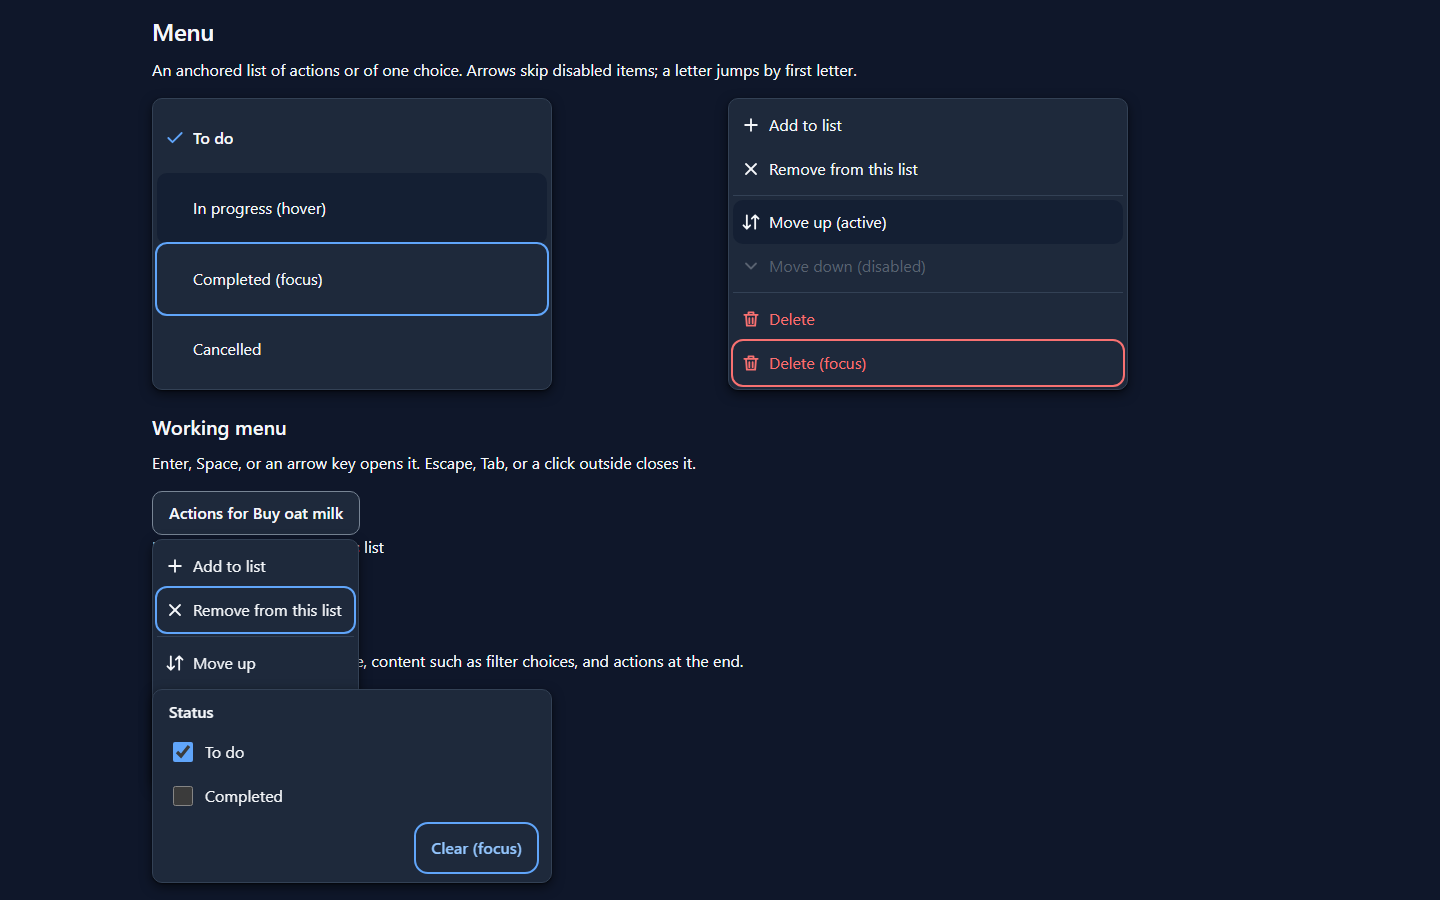
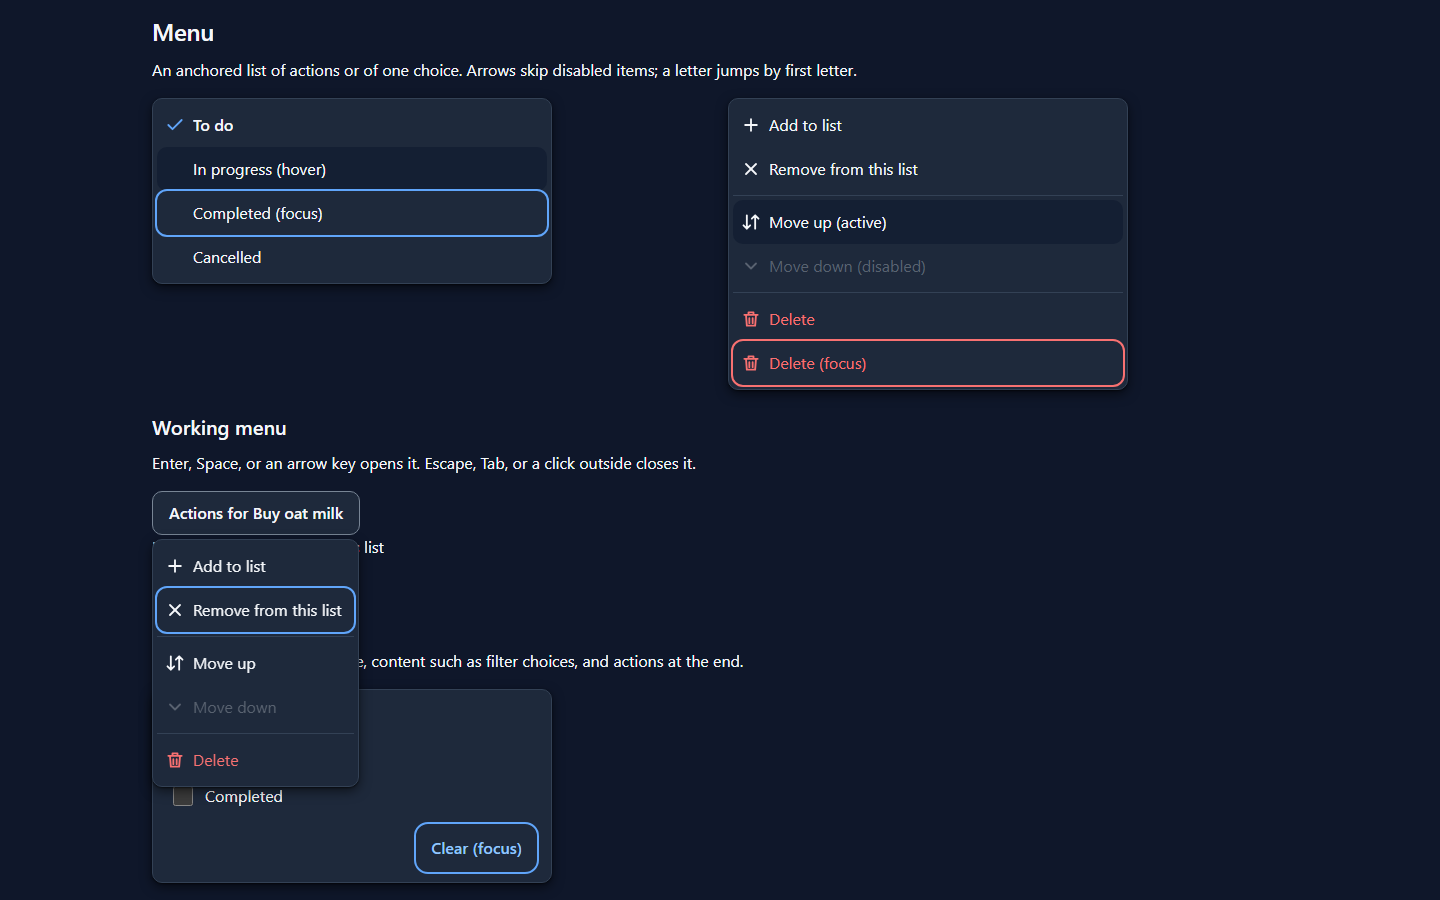
Checkpointed task T0011.

diff --git a/tasks/T0011-extract-the-menu-and-popover-modules-from-todos/validation-proof.md b/tasks/T0011-extract-the-menu-and-popover-modules-from-todos/validation-proof.md
@@ -91,3 +91,59 @@ Each look at 390 and 1440 px, light and dark, with the menu or popover open:
 - todos tokens mapped to contract tokens: hover and active grounds to `--color-surface-hover` and `--color-surface-active`.
 - `--color-signal` became `--color-primary`, `--icon-size` became `--icon-md`, and `--width-editor` became `--width-side-panel`.
 - `--radius-lg` and `--radius-md` became the `--radius-card` and `--radius-control` roles.
+
+## Review Round 1 Rework
+### Failing topmost assertion before the gallery fix
+`expectOnTop` checks `document.elementFromPoint` at the center of the menu's Delete item and the popover's Clear button.
+Command: `npx playwright test tests/e2e/menu.spec.js tests/e2e/popover.spec.js --reporter=line`, exit code 1.
+```text
+Running 8 tests using 4 workers
+  1) [desktop-dark] › tests\e2e\menu.spec.js:7:1 › menu keyboard and anchoring
+    Error: covered by another element
+    expect(received).toBe(expected) // Object.is equality
+    Expected: true
+    Received: false
+       at gallery-helpers.js:164
+    > 164 |     expect(hit, 'covered by another element').toBe(true);
+[... 22 lines omitted ...]
+  2 failed
+    [desktop-light] › tests\e2e\menu.spec.js:7:1 › menu keyboard and anchoring
+    [desktop-dark] › tests\e2e\menu.spec.js:7:1 › menu keyboard and anchoring
+  6 passed (8.1s)
+```
+
+### Passing after the gallery fix
+Completion check: `MENU_EVIDENCE={{companion-dir}} npx playwright test tests/e2e/menu.spec.js tests/e2e/popover.spec.js`, exit code 0.
+```text
+Running 8 tests using 4 workers
+  ok 1 [desktop-light] › tests\e2e\menu.spec.js:7:1 › menu keyboard and anchoring (2.5s)
+  ok 2 [desktop-light] › tests\e2e\popover.spec.js:7:1 › popover focus and anchoring (2.6s)
+  ok 3 [desktop-dark] › tests\e2e\menu.spec.js:7:1 › menu keyboard and anchoring (2.6s)
+  ok 4 [desktop-dark] › tests\e2e\popover.spec.js:7:1 › popover focus and anchoring (2.6s)
+  ok 5 [mobile-light] › tests\e2e\menu.spec.js:7:1 › menu keyboard and anchoring (2.2s)
+  ok 6 [mobile-light] › tests\e2e\popover.spec.js:7:1 › popover focus and anchoring (2.4s)
+  ok 7 [mobile-dark] › tests\e2e\menu.spec.js:7:1 › menu keyboard and anchoring (2.2s)
+  ok 8 [mobile-dark] › tests\e2e\popover.spec.js:7:1 › popover focus and anchoring (2.3s)
+  8 passed (8.0s)
+```
+
+Full suite with the verifier: `python scripts/devops.py check`, exit code 0 (summary lines).
+```text
+All 25 markdown files passed linting.
+All checks passed!
+4 files already formatted
+============================== 3 passed in 1.90s ==============================
+ Test Files  18 passed (18)
+      Tests  1975 passed (1975)
+  252 passed (1.7m)
+ Test Files  2 passed (2)
+      Tests  4 passed (4)
+npm notice total files: 79
+```
+
+### Screenshot inspection
+All 24 after screenshots were recaptured and inspected one by one.
+- Every open menu and popover paints above the static specimens and the avatars below.
+- Static menu specimens keep their natural item height at 1440 px.
+- Near the viewport bottom, the working menu and popover flip above their trigger, as designed.
+- Fixed example: [bright desktop light](after-menu-bright-desktop-light.png) now shows Move down and Delete above the popover specimen.

diff --git a/tasks/T0011-extract-the-menu-and-popover-modules-from-todos.md b/tasks/T0011-extract-the-menu-and-popover-modules-from-todos.md
@@ -13,10 +13,12 @@ preview: none
 protocol: standard
 usage:
   worker: {turns: 4, duration_s: 2112.0, input: 344, output: 91796, cache_read: 22977506, cache_write: 317470}
-work_duration: 8.2
+  review: {turns: 2, duration_s: 437.2, input: 84, output: 19292, cache_read: 3305676, cache_write: 167472}
+work_duration: 1295.0
 contributors: "@codex"
-review_status: pending
+review_status: rejected
 review_round: 1
+reviewed_by: "@claude-2"
 ---
 # T0011: Extract the menu and popover modules from todos.webapp as they are, with keyboard support and anchoring
 
@@ -34,6 +36,10 @@ See the technical specification for files, tests, and the completion check.
 - [x] **[Verify]**    Run the menu and popover tests and the verifier until they pass.
 - [x] **[Visual]**    Capture the gallery menu sections per theme at 390 and 1440 px.
 - [x] **[Doc]**       Update the style guide and CHANGELOG.md.
+- [x] **[Implement]** Add an e2e assertion that open menus and popovers paint above gallery specimens.
+- [x] **[Verify]**    Record the failing topmost assertion in validation-proof.md.
+- [x] **[Implement]** Keep static overlay specimens below open panels and at natural height.
+- [x] **[Verify]**    Rerun the specs and the check, then recapture and inspect all screenshots.
 - [ ] **[Review]**    Obtain review approval of the finished work before completion.
 
 ## Execution Log
@@ -66,4 +72,23 @@ See the technical specification for files, tests, and the completion check.
 
 - [2026-11-12] **[Review]**
   Round 1 requested (mode: agent).
+
+- [2026-11-12] **[Review]**
+  Round 1 rejected by @claude-2: The module extraction is faithful.
+  - Findings: [review-findings-1.md](T0011-extract-the-menu-and-popover-modules-from-todos/review-findings-1.md).
+
+- [2026-11-12] **[Verify]**
+  Added expectOnTop with elementFromPoint; desktop menu runs failed because the static popover specimen covered the open menu.
+
+- [2026-11-12] **[Implement]**
+  Added an overlay-specimens gallery class with z-index auto and align-items start; component CSS stays unchanged.
+
+- [2026-11-12] **[Visual]**
+  Inspected all 24 recaptured screenshots; open panels paint on top and specimens keep natural height. Evidence: [before](T0011-extract-the-menu-and-popover-modules-from-todos/before-desktop-light.png), [after](T0011-extract-the-menu-and-popover-modules-from-todos/after-menu-bright-desktop-light.png).
+
+- [2026-11-12] **[Verify]**
+  Completion check and devops check passed after rework.
+  - Files touched: 7.
+  - Lines touched: 154.
+  - Reopenings: 0.
 

diff --git a/tasks/T0011-extract-the-menu-and-popover-modules-from-todos/review-findings-1.md b/tasks/T0011-extract-the-menu-and-popover-modules-from-todos/review-findings-1.md
@@ -3,7 +3,7 @@ task: T0011
 round: 1
 verdict: rejected
 reviewer: "@claude-2"
-reviewed_at: 2026-11-12T16:14:21Z
+reviewed_at: 2026-11-12T16:18:04Z
 reviewed_commit: "574cd31"
 base_commit: "cb19d61"
 branch: task/T0011-extract-the-menu-and-popover-modules-from-todos
